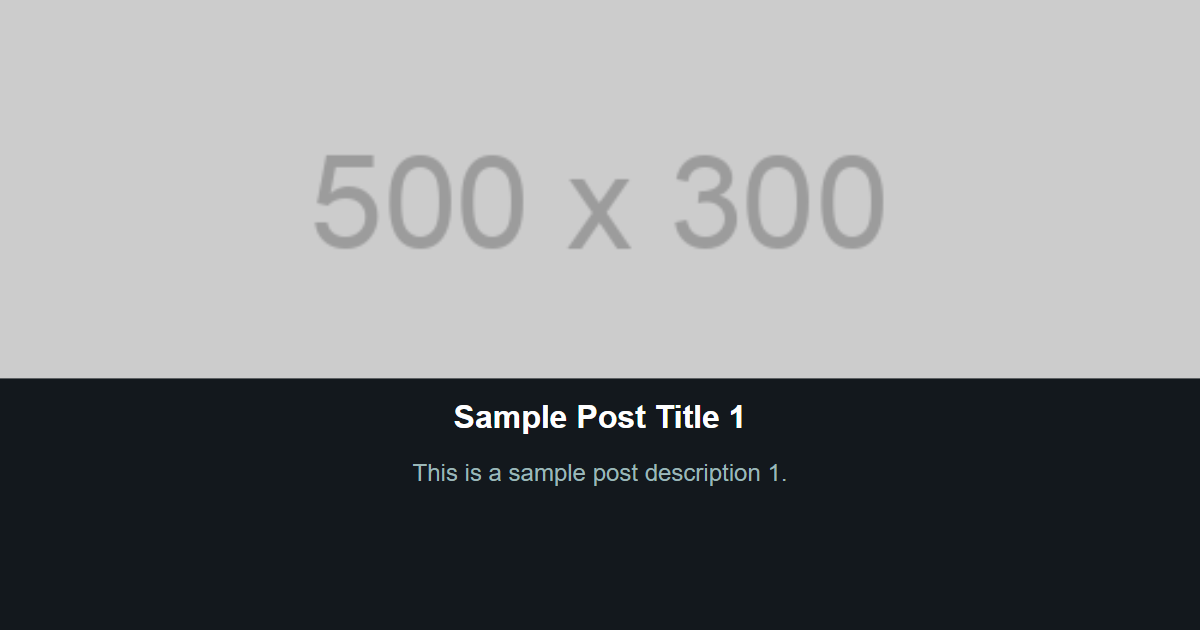
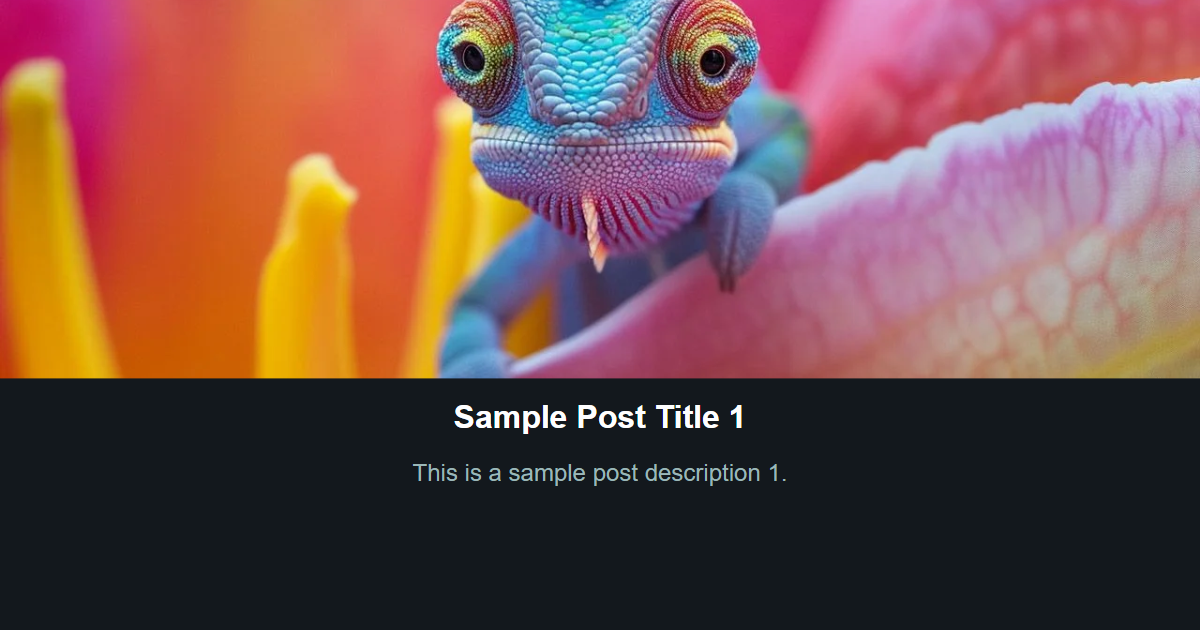
"Updated frontend code: modified PostCard and HomePage components, updated postcss and tailwindcss versions, removed postcss.config.cjs and README.md files, and made changes to various CSS classes and styles."

diff --git a/frontend/utils/PostCard.jsx b/frontend/utils/PostCard.jsx
@@ -1,49 +1,42 @@
-import React, { useState } from 'react';
+import React from 'react';
 import { Link } from 'react-router-dom';
 
 const PostCard = ({ title, description, owner, media, _id }) => {
-
   return (
-    <div className="post-card bg-slate-300 shadow-md w-[500px] max-h-[500px] min-w-[600px] rounded-2xl py-1">
-      <div className=' rounded-2xl py-4 px-8'>
+    <div className="post-card bg-slate-200 shadow-md w-[500px] max-h-[400px] rounded-2xl py-1">
+      <div className='rounded-2xl py-4 px-8'>
         <div className='flex gap-10 justify-between'>
           {owner && (
             <div className="owner-info flex items-center mb-3 gap-4 text-gray-800 ml-3">
               <img
                 src={owner.avatar}
                 alt={`Avatar of ${owner.userName}`}
-                className="w-10 h-10 rounded-full mr-2"
+                className="avatar" // Use the global avatar class
               />
               <div>
                 <span className="font-bold text-gray-800">{owner.userName}</span>
-                
               </div>
             </div>
           )}
-          
         </div>
         <div>
-          <div>
-            <h2 className="text-xl font-bold text-gray-800 ml-3 ">{title}</h2>
-            <p className="text-gray-800 ml-3">{description}</p>
-
-            {media && (
-              <div className="media mt-4 rounded-2xl border border-black w-[300px] flex justify-center">
-                <a href={media} target="_blank" rel="noopener noreferrer">
-                  <img src={media} alt="Media content" className="max-w-[300px] max-h-[300px]" />
-                </a>
-              </div>
-            )}
-          </div>
-            
-            <Link to={`post/${_id}`}>
-              <div className='flex bg-[#222020] rounded-full gap-1 cursor-pointer pr-1 mt-3'>
-                <p className='text-xl'>Share</p>
-              </div>
-            </Link>
-          </div>
+          <h2 className="text-xl font-bold text-gray-800 ml-3">{title}</h2>
+          <p className="text-gray-800 ml-3">{description}</p>
+          {media && (
+            <div className="media mt-4 rounded-2xl border border-black w-[400px] flex justify-center">
+              <a href={media} target="_blank" rel="noopener noreferrer">
+                <img src={media} alt="Media content" className="media-img" /> {/* Use the global media-img class */}
+              </a>
+            </div>
+          )}
+          <Link to={`post/${_id}`}>
+            <div className='flex bg-[#222020] rounded-full gap-1 cursor-pointer pr-1 mt-3'>
+              <p className='text-xl text-white'>Share</p>
+            </div>
+          </Link>
         </div>
       </div>
+    </div>
   );
 };
 

diff --git a/frontend/utils/postData.jsx b/frontend/utils/postData.jsx
@@ -4,10 +4,10 @@ const PostData = () => {
         title: "Sample Post Title 1",
         description: "This is a sample post description 1.",
         owner: {
-          userName: "John Doe",
-          avatar: "https://via.placeholder.com/40",
+          userName: "User 1",
+          avatar: "https://img.freepik.com/free-psd/3d-illustration-human-avatar-profile_23-2150671142.jpg",
         },
-        media: "https://www.google.com/url?sa=i&url=https%3A%2F%2Fletsenhance.io%2F&psig=AOvVaw2fTVzDNY-peGMlccLi2TnP&ust=1723038555052000&source=images&cd=vfe&opi=89978449&ved=0CBEQjRxqFwoTCNjUpvnA4IcDFQAAAAAdAAAAABAE",
+        media: "https://letsenhance.io/static/8f5e523ee6b2479e26ecc91b9c25261e/1015f/MainAfter.jpg",
        
         _id: "post1",
       },
@@ -15,10 +15,10 @@ const PostData = () => {
         title: "Sample Post Title 2",
         description: "This is a sample post description 2.",
         owner: {
-          userName: "Jane Smith",
-          avatar: "https://via.placeholder.com/40",
+          userName: "User 2",
+          avatar: "https://img.freepik.com/free-psd/3d-illustration-human-avatar-profile_23-2150671142.jpg",
         },
-        media: "https://www.google.com/url?sa=i&url=https%3A%2F%2Fletsenhance.io%2F&psig=AOvVaw2fTVzDNY-peGMlccLi2TnP&ust=1723038555052000&source=images&cd=vfe&opi=89978449&ved=0CBEQjRxqFwoTCNjUpvnA4IcDFQAAAAAdAAAAABAE",
+        media: "https://letsenhance.io/static/8f5e523ee6b2479e26ecc91b9c25261e/1015f/MainAfter.jpg",
         _id: "post2"
       },
 
@@ -27,9 +27,9 @@ const PostData = () => {
       description: "This is a sample post description 3.",
       owner: {
         userName: "User 3",
-        avatar: "https://via.placeholder.com/40",
+        avatar: "https://img.freepik.com/free-psd/3d-illustration-human-avatar-profile_23-2150671142.jpg",
       },
-      media: "https://www.google.com/url?sa=i&url=https%3A%2F%2Fletsenhance.io%2F&psig=AOvVaw2fTVzDNY-peGMlccLi2TnP&ust=1723038555052000&source=images&cd=vfe&opi=89978449&ved=0CBEQjRxqFwoTCNjUpvnA4IcDFQAAAAAdAAAAABAE",
+      media: "https://letsenhance.io/static/8f5e523ee6b2479e26ecc91b9c25261e/1015f/MainAfter.jpg",
       _id: "post3"
     },
       // Add more posts as needed

diff --git a/frontend/src/components/HomePage.jsx b/frontend/src/components/HomePage.jsx
@@ -1,15 +1,14 @@
-// HomePage.jsx
 import React from "react";
-import PostCard from "../../utils/PostCard.jsx";
-import PostData from "../../utils/postData.jsx"
+import PostCard from "../../utils/PostCard";
+import PostData from "../../utils/postData";
 
 const HomePage = () => {
   const posts = PostData();
 
   return (
-    <div className="flex flex-col bg-black  w-full min-h-screen overflow-y-auto items-center no-scrollbar py-8">
+    <div className="flex flex-col bg-black w-full min-h-screen overflow-y-auto items-center no-scrollbar py-8">
       {posts.map((post) => (
-        <div key={post._id} className="rounded-2xl bg-slate-300 p-1 mb-4">
+        <div key={post._id} className="rounded-2xl bg-slate-300 p-1 mb-4 w-[520px]">
           <PostCard {...post} />
         </div>
       ))}

diff --git a/frontend/tailwind.config.js b/frontend/tailwind.config.js
@@ -1,11 +1,11 @@
 /** @type {import('tailwindcss').Config} */
-export default {
-    content: [
-      "./index.html",
-      "./src/**/*.{js,ts,jsx,tsx}",
-    ],
-    theme: {
-      extend: {},
-    },
-    plugins: [],
-  }
+module.exports = {
+  content: [
+    "./index.html",
+    "./src/**/*.{js,ts,jsx,tsx}",
+  ],
+  theme: {
+    extend: {},
+  },
+  plugins: [],
+};

diff --git a/frontend/src/index.css b/frontend/src/index.css
@@ -1,3 +1,12 @@
 @tailwind base;
 @tailwind components;
 @tailwind utilities;
+
+/* Global styles for avatar and images */
+.avatar {
+  @apply w-10 h-10 object-cover rounded-full;
+}
+
+.media-img {
+  @apply max-w-[500px] max-h-[300px];
+}
